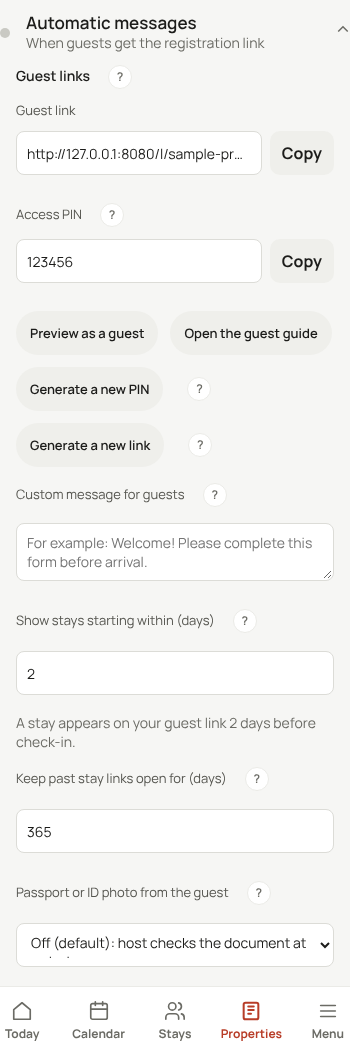
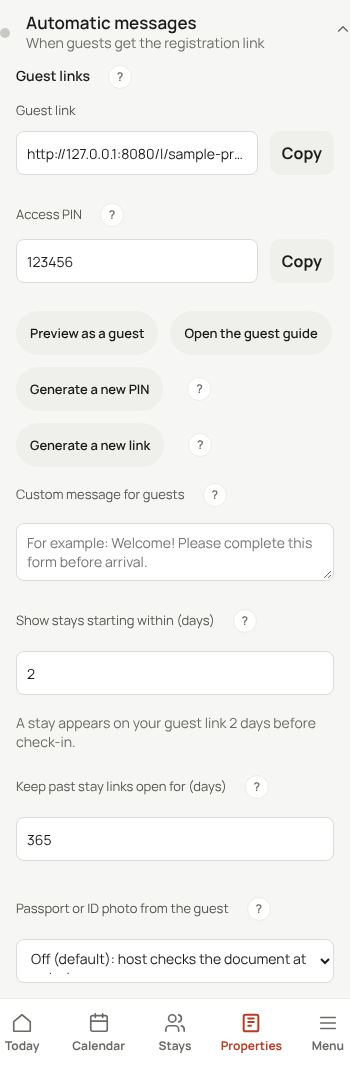
0951: report (third run, blocked), screenshots
Claude-Session: https://claude.ai/code/session_01Cjmb7QWLWsEcS87gQn8cYV

diff --git a/docs/tasks/0951-report.md b/docs/tasks/0951-report.md
@@ -32,3 +32,11 @@ Screenshots: docs/tasks/screenshots-0951/automatic-messages-{390,768,1280}.png, 
 - 1280: links full width; actions in 2 rows; numbers side by side.
 - Finding: the note "A stay appears…" and the passport label sit with almost no gap at 768/1280 (grid row gap does not separate them). Not fixed.
 Next step: decide the static key (bump to a new key or accept the orchestrator's regenerate), run `tests/test_static_versions.py --write`, identify the 4th failure, and check the 80 layout-lint findings against the base branch.
+
+## Update (third run)
+Status: blocked
+Gate set (`test_host_property_controls_browser`, `test_0833`, `test_0541`, `test_layout_lint_browser`, `test_static_versions`, `test_0531`, `test_calmer_forms`): last full run 34 passed, 1 failed, 0 skipped; after the last CSS change the lint file alone: 3 passed, 1 failed (layout lint); property controls file 7 passed in the same run (geometry test passes).
+Fixed: help-tip `?` moved inside the OCR `<label>` (lint `help-stranded` for `tight-side` was caused by 8 px copy gap: now 12 px). `test_property_and_operator_controls` asserted `data-copy="property-guest-url"`, moved to `overview-guest-url` by 0948 (base already broken). Geometry test checks checkbox against first text line. Cache key now 20261104-0951f, manifest current.
+Lint still: 56 `help-stranded` (OCR `?` tip, 8 routes x 7 widths). The lint measures the tip against the label text span; with the tip inside the label it reports "on its own line" at 320 px, 41 px off. Not fixed.
+Screenshots (docs/tasks/screenshots-0951/): 390 viewed: Copy on input row, actions wrap to 3 rows, ? inline; select text second line clipped by the select height (real finding, not fixed). 768/1280 viewed earlier: note and passport label gap now 24 px.
+Next step: in app2.css, make the OCR tip not a lint-stranded element: move `help_tip('ocr_scan-help')` out of the `label` and right after the `<label>` in a `div.passport-scan-row` flex row whose label is `display:contents`-free, or give the span `display:inline` so the lint anchor is the text line; then the select `min-height` to fit two lines (`height:auto`), and rerun lint.
